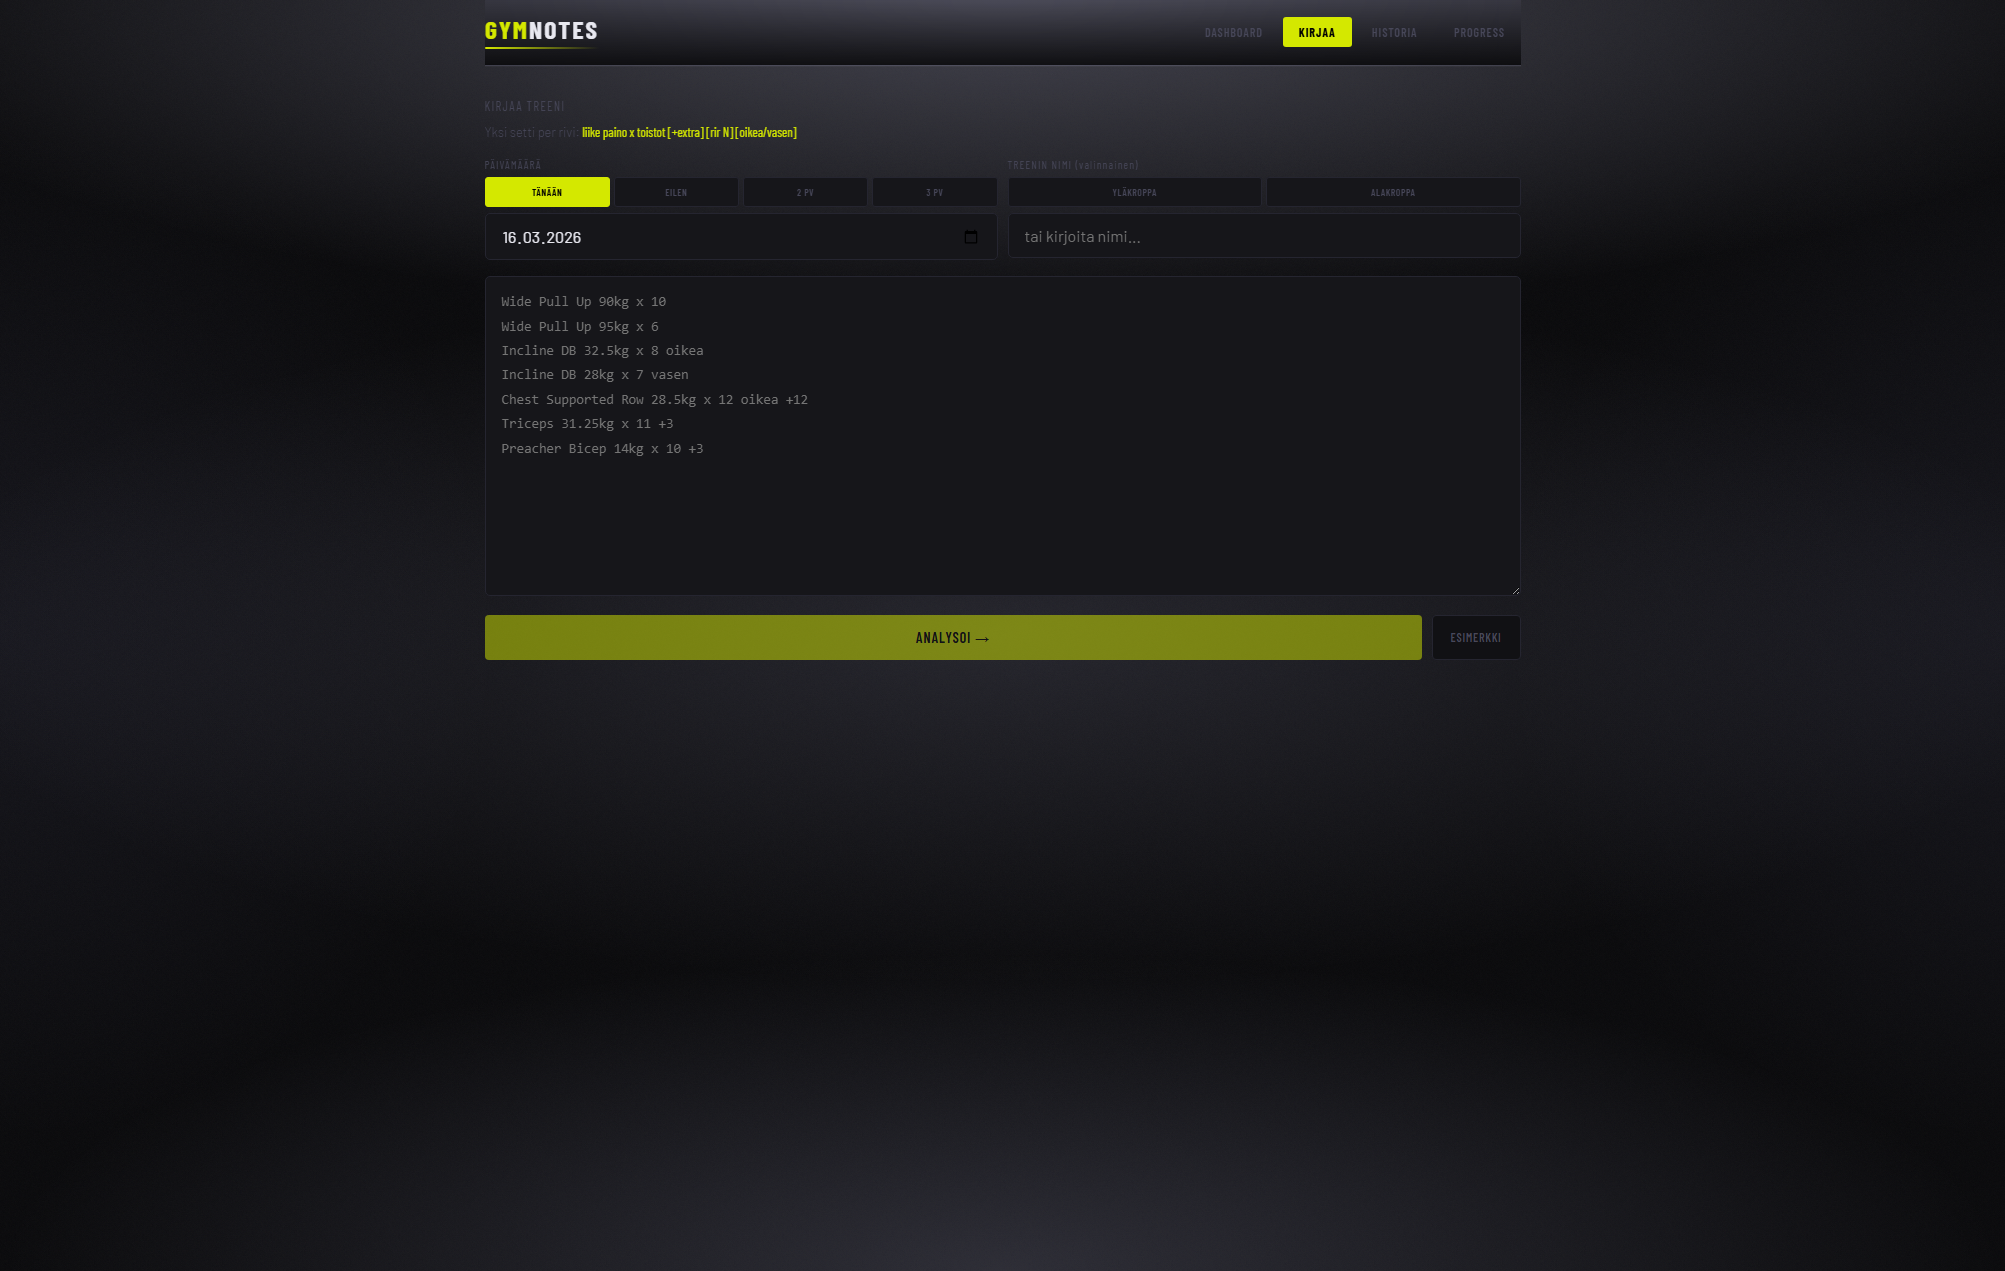
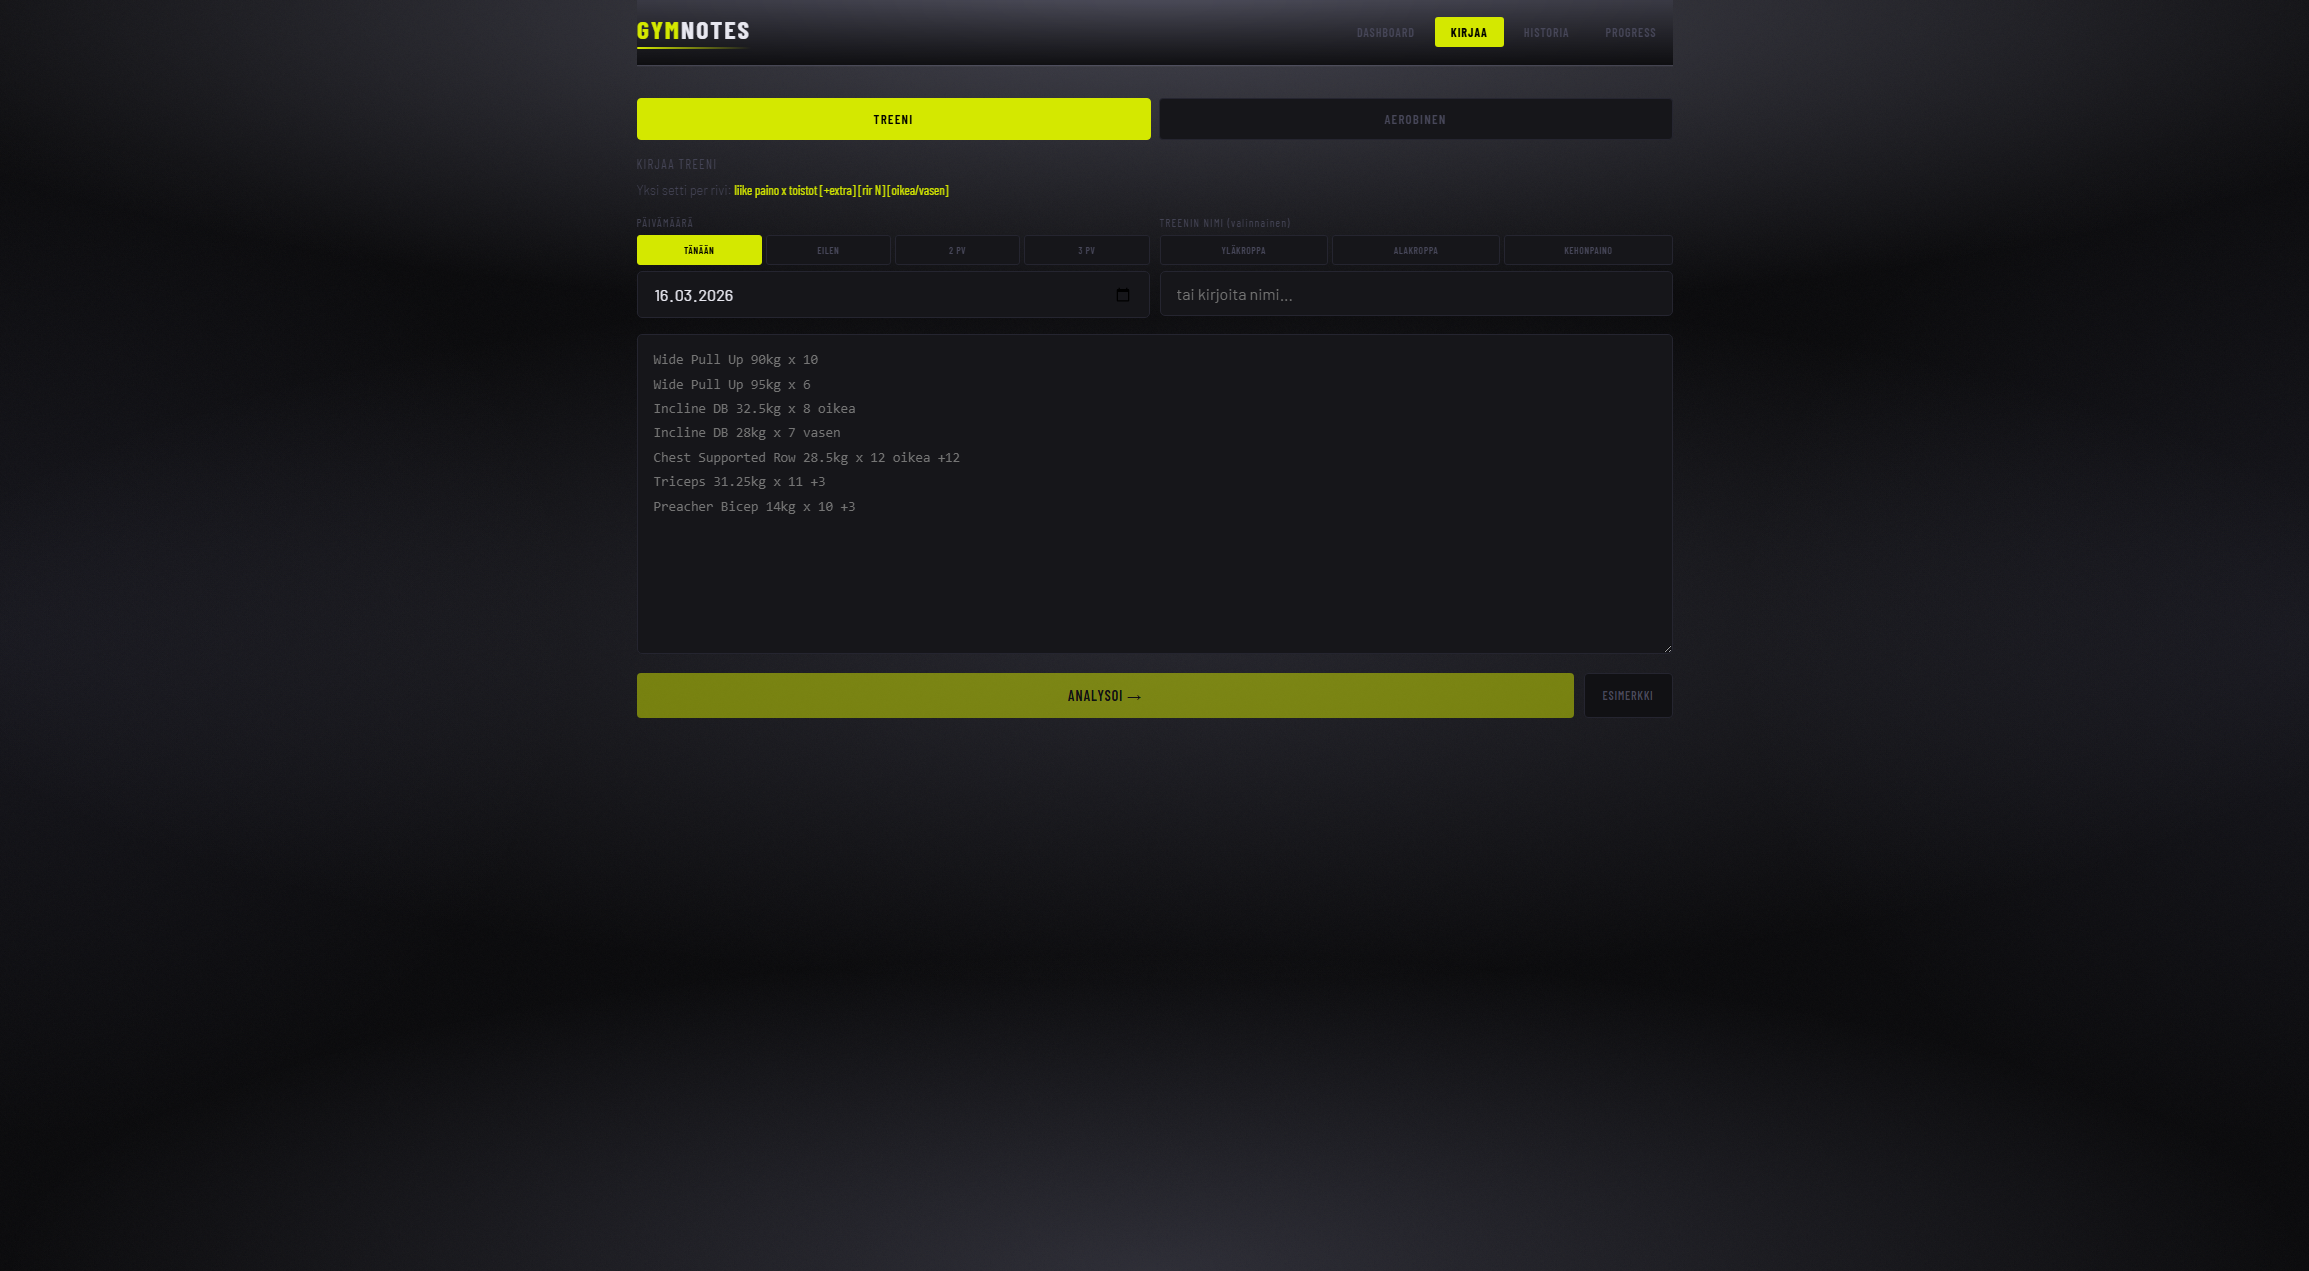
docs: update README and screenshots

diff --git a/README.md b/README.md
@@ -26,35 +26,51 @@ I have been going to the gym regularly for over a year and wanted a proper way t
 |---------|----------|
 | ![History](screenshots/history.png) | ![Progress](screenshots/progress.png) |
 
+| Cardio Logging | Cardio Progress |
+|----------------|----------------|
+| ![Cardio Logging](screenshots/bulk_cardio.png) | ![Cardio Progress](screenshots/progress_cardio.png) |
+
 ---
 
 ## Features
 
-Dashboard
+### Dashboard
 - Weekly training goal with progress bar
-- 28-day calendar with color-coded session types
+- 28-day calendar with color-coded session types (upper body, lower body, bodyweight, cardio)
 - Last session summary including sets, exercises and best set
 - Training split breakdown for the current month
 - Weekly set volume chart for the last 6 weeks
 - Personal records per exercise with sparkline trend charts
 
-Workout Logging
-- Natural language input, type workouts line by line
-- Format: Exercise weight x reps
-- Quick-select buttons for session name and date
+### Workout Logging
+- Natural language bulk input, type workouts line by line
+- Format: `Exercise weight x reps [+extrareps] [rir N] [right/left]`
+- Bodyweight exercises supported with format: `Exercise x reps`
+- Quick-select buttons for session type and date
+- Dynamic example per session type (upper body, lower body, bodyweight)
 - Preview and confirm before saving to database
 
-History
+### Cardio
+- Log aerobic sessions with duration and distance
+- Auto-calculated speed in km/h with live preview
+- Separate tab in workout logging
+
+### History
 - Full session history sorted by date
+- Filter by session type: upper body, lower body, bodyweight, cardio
 - Expandable session details with all sets
 - Delete individual sets or entire sessions
+- Cardio sessions shown inline with distance, duration and speed
 
-Progress
-- Per-exercise progress history
-- Estimated 1 rep max trend using the Epley formula
-- Monthly comparison chart
+### Progress
+- Per-exercise analytics with estimated 1 rep max trend (Epley formula)
+- Bodyweight exercise tracking by rep count and added weight
+- Monthly comparison chart with best weight and volume
 - Volume and frequency statistics
+- RIR intensity tracking
+- Left/right side tracking for unilateral exercises
 - Plateau detection
+- Cardio analytics tab with speed trend chart and monthly volume
 
 ---
 
@@ -78,6 +94,7 @@ gym-agent/
 │   ├── routers/
 │   │   ├── analytics.py
 │   │   ├── bulk.py
+│   │   ├── cardio.py
 │   │   ├── chat.py
 │   │   ├── confirm.py
 │   │   ├── dashboard.py
@@ -92,16 +109,34 @@ gym-agent/
 │   └── main.py
 ├── frontend/
 │   └── src/
-│       ├── assets/
-│       ├── components/dashboard/
-│       │   ├── LastSession.jsx
-│       │   ├── MonthCalendar.jsx
-│       │   ├── PRCard.jsx
-│       │   ├── PRGrid.jsx
-│       │   ├── StreakBar.jsx
-│       │   ├── TrainingSplit.jsx
-│       │   ├── WeeklyVolume.jsx
-│       │   └── WeekStrip.jsx
+│       ├── components/
+│       │   ├── bulk/
+│       │   │   ├── AerobinenForm.jsx
+│       │   │   └── TreeniForm.jsx
+│       │   ├── dashboard/
+│       │   │   ├── LastSession.jsx
+│       │   │   ├── MonthCalendar.jsx
+│       │   │   ├── PRCard.jsx
+│       │   │   ├── PRGrid.jsx
+│       │   │   ├── StreakBar.jsx
+│       │   │   ├── TrainingSplit.jsx
+│       │   │   ├── WeeklyVolume.jsx
+│       │   │   └── WeekStrip.jsx
+│       │   ├── history/
+│       │   │   ├── CardioRow.jsx
+│       │   │   └── SessionRow.jsx
+│       │   └── progress/
+│       │       ├── BodyweightStats.jsx
+│       │       ├── CardioStats.jsx
+│       │       ├── IntensityStats.jsx
+│       │       ├── MonthlyChart.jsx
+│       │       ├── MonthlyComparison.jsx
+│       │       ├── SessionHistory.jsx
+│       │       ├── SideStats.jsx
+│       │       ├── StatCard.jsx
+│       │       ├── StrengthStats.jsx
+│       │       ├── TrendBadge.jsx
+│       │       └── VolumeStats.jsx
 │       ├── pages/
 │       │   ├── Bulk.jsx
 │       │   ├── Dashboard.jsx
@@ -109,7 +144,6 @@ gym-agent/
 │       │   ├── Log.jsx
 │       │   └── Progress.jsx
 │       ├── api.js
-│       ├── App.css
 │       ├── App.jsx
 │       ├── index.css
 │       └── main.jsx
@@ -123,7 +157,7 @@ gym-agent/
 
 Requirements: Python 3.10 or higher and Node.js 18 or higher.
 
-Backend
+**Backend**
 ```
 cd gym-agent
 python -m venv venv
@@ -132,7 +166,7 @@ pip install -r requirements.txt
 uvicorn app.main:app --reload
 ```
 
-Frontend
+**Frontend**
 ```
 cd gym-agent/frontend
 npm install
@@ -146,7 +180,8 @@ App runs at http://localhost:5173
 ## Data Model
 ```
 workout_session (id, date, name)
-set_entry       (id, session_id, exercise, weight, reps, extra_reps)
+set_entry       (id, session_id, exercise, set_index, weight, reps, extra_reps, rir, side)
+cardio_entry    (id, session_id, type, duration_min, distance_km)
 ```
 
 All analytics are computed at query time from raw set data.
@@ -155,13 +190,17 @@ All analytics are computed at query time from raw set data.
 
 ## Key Technical Decisions
 
-SQLite over PostgreSQL. This is a single user personal project with no infrastructure overhead and the database is just a file.
+**SQLite over PostgreSQL.** This is a single user personal project with no infrastructure overhead and the database is just a file.
 
-Custom Canvas charts. All visualizations are built from scratch using the Canvas API instead of a chart library which gives full control over appearance and behavior.
+**Custom Canvas charts.** All visualizations are built from scratch using the Canvas API instead of a chart library which gives full control over appearance and behavior.
 
-Natural language input. Logging workouts by typing is faster than filling out forms and the parser handles fuzzy matching for exercise names.
+**Natural language input.** Logging workouts by typing is faster than filling out forms. The parser handles exact exercise name matching and bodyweight exercises with zero weight.
 
-Epley formula for e1RM. The formula is weight multiplied by 1 plus reps divided by 30 which gives an estimated 1 rep max used for progress tracking and personal records.
+**Epley formula for e1RM.** The formula is weight multiplied by 1 plus reps divided by 30 which gives an estimated 1 rep max used for progress tracking and personal records.
+
+**Separate cardio table.** Cardio sessions use a dedicated `cardio_entry` table instead of mixing with set-based training data. This keeps the data model clean and makes cardio analytics straightforward.
+
+**Component architecture.** Pages are kept thin by extracting logical sections into focused components. Each component has a single responsibility which keeps files short and easy to maintain.
 
 ---
 
@@ -172,5 +211,3 @@ Building this project end to end taught me how to design and connect all layers 
 Working with the Canvas API for custom charts was also new territory. Handling device pixel ratios, resize observers and smooth animations without any library required careful implementation.
 
 ---
-
-Built for personal use. Real data, real workouts.
